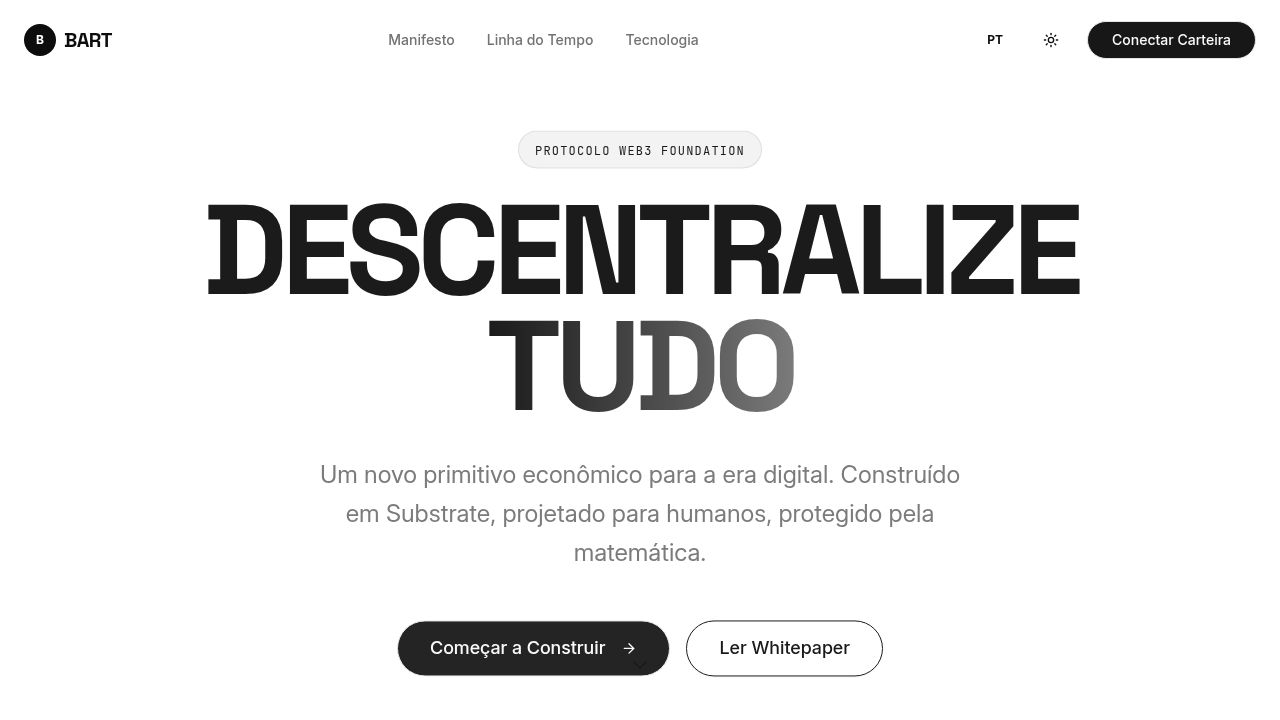
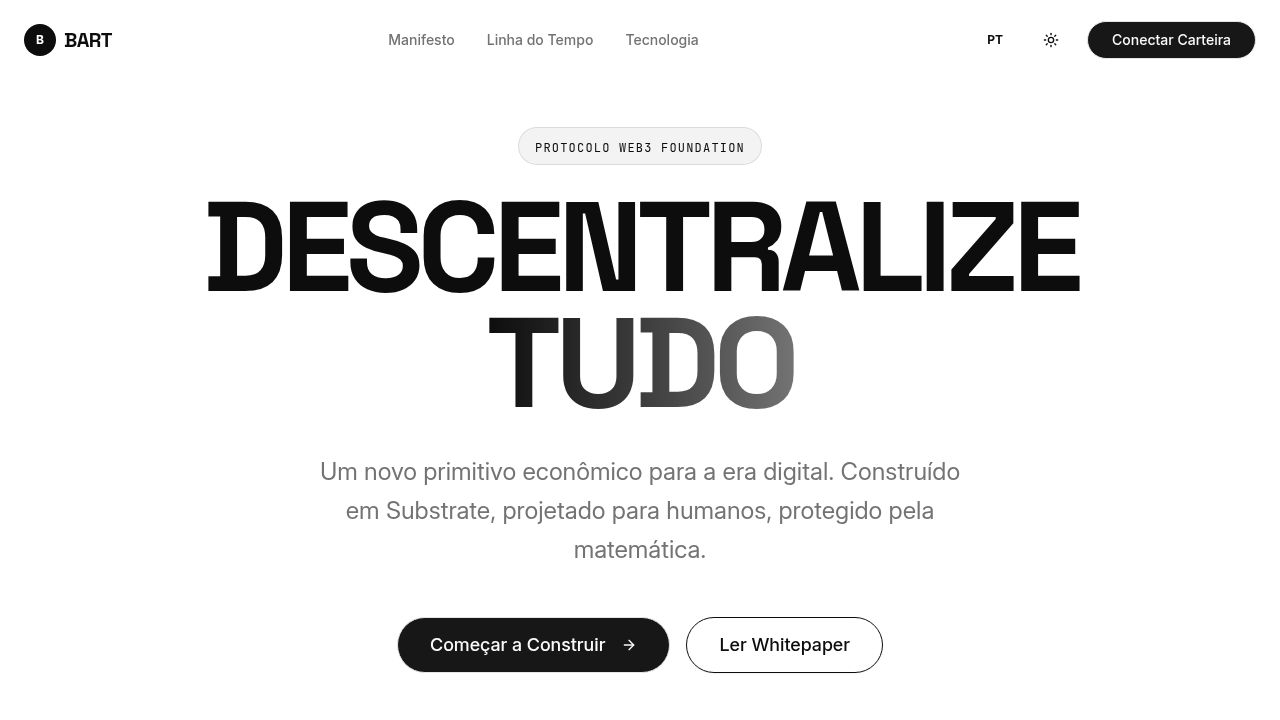
Make the connect wallet button visible on all screen sizes
Update home page to render the ConnectWalletButton for mobile and desktop views, removing the `hidden md:block` wrapper.

Replit-Commit-Author: Agent
Replit-Commit-Session-Id: 0a448a4d-eca1-463a-a986-c13dbdc4388b
Replit-Commit-Checkpoint-Type: full_checkpoint
Replit-Commit-Event-Id: b4629f2e-8c8d-4cc8-8a48-aa92ec419c70
Replit-Commit-Screenshot-Url: https://storage.googleapis.com/screenshot-production-us-central1/0b06dc8a-655c-4ed7-af0b-29a931ba6f32/0a448a4d-eca1-463a-a986-c13dbdc4388b/gMHMNaN
Replit-Helium-Checkpoint-Created: true

diff --git a/client/src/pages/home.tsx b/client/src/pages/home.tsx
@@ -201,19 +201,17 @@ export default function Home() {
             <a href="#solution" className="hover:text-foreground transition-colors">{content.nav.technology}</a>
           </div>
 
-          <div className="flex items-center gap-4">
+          <div className="flex items-center gap-2 md:gap-4">
             <Button 
               variant="ghost" 
               size="icon" 
               onClick={toggleLang}
-              className="rounded-full w-10 h-10 hover:bg-accent"
+              className="rounded-full w-8 h-8 md:w-10 md:h-10 hover:bg-accent"
             >
               <span className="font-bold text-xs">{lang.toUpperCase()}</span>
             </Button>
             <ThemeToggle />
-            <div className="hidden md:block">
-              <ConnectWalletButton label={content.nav.connect} />
-            </div>
+            <ConnectWalletButton label={content.nav.connect} />
           </div>
         </div>
       </nav>
